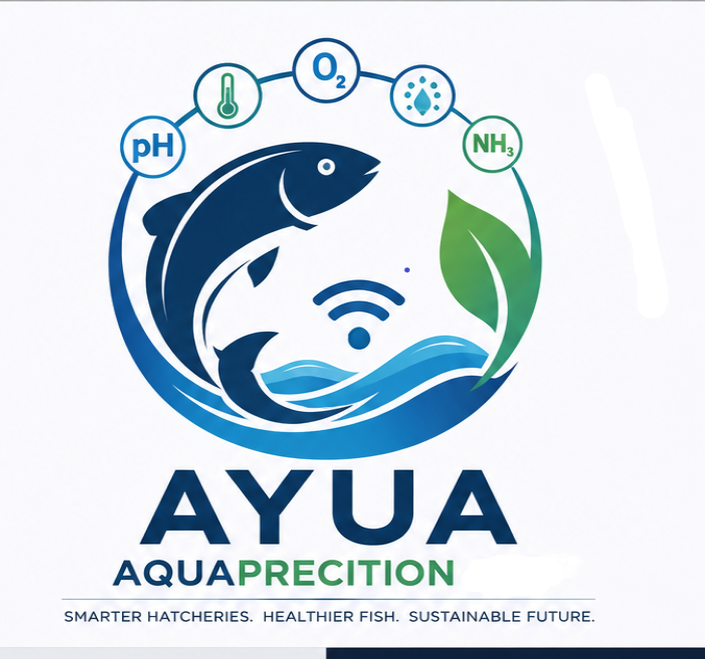
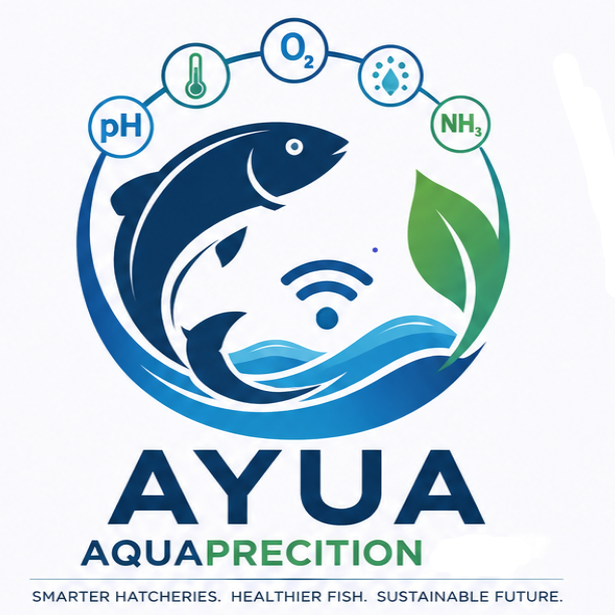
chore: update dependencies and fix code issues
- Bump expo version from 54.0.35 to 54.0.36 in package.json
- Update expo-secure-store version from 57.0.1 to 15.0.8
- Add react-native-svg dependency at version 15.12.1
- Refactor pondId check in FeedingScheduleScreen to use truthy check
- Update feeding-schedules API to specify type for schedule mapping
- Ensure user authentication check in POST request handler
- Fix onChangeText handler in AddScheduleModal to correctly set feed type

diff --git a/src/app/api/feeding-schedules+api.ts b/src/app/api/feeding-schedules+api.ts
@@ -59,7 +59,7 @@ export async function GET(request: Request) {
 
   return Response.json({
     success: true,
-    data: schedules.map((schedule) => ({
+    data: schedules.map((schedule: any) => ({
       id: schedule.id,
       pondId: schedule.pondId,
       feedType: schedule.feedType,
@@ -75,8 +75,10 @@ export async function GET(request: Request) {
 }
 
 export async function POST(request: Request) {
+
   try {
     const userId = await getAuthenticatedUserId(request);
+    
     if (!userId) {
       return Response.json({ success: false, message: "Unauthorized." }, { status: 401 });
     }

diff --git a/src/app/(tabs)/feeding-screen.tsx b/src/app/(tabs)/feeding-screen.tsx
@@ -133,7 +133,7 @@ export default function FeedingScheduleScreen() {
       Alert.alert("Save failed", "User not authenticated.");
       return;
     };
-    if (newSchedule.pondId === "") {
+    if (!newSchedule.pondId) {
       Alert.alert("Save failed", "Please select a pond.");
       return;
     };

diff --git a/src/components/AddScheduleModal.tsx b/src/components/AddScheduleModal.tsx
@@ -126,7 +126,7 @@ export default function AddScheduleModal({
                 <TextInput
                   placeholder="Feed Type"
                   value={feedType}
-                  onChangeText={setFeedType}
+                  onChangeText={() => setFeedType}
                   style={styles.input}
                 />
 